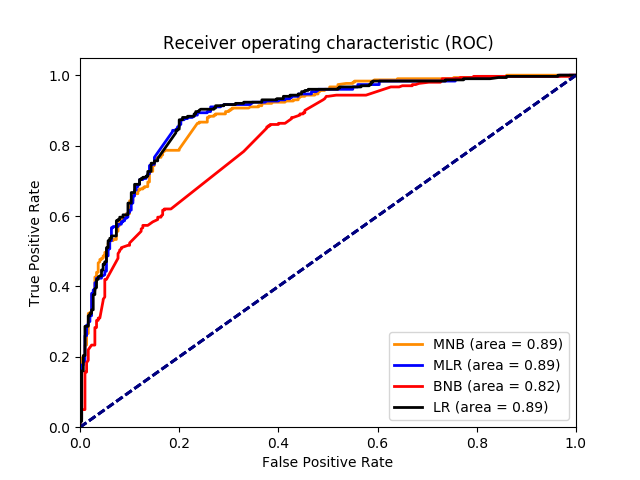
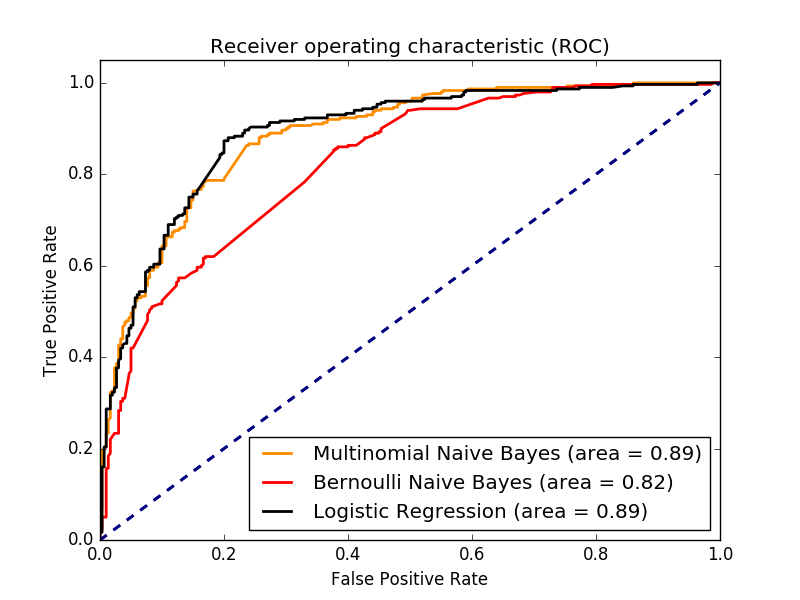
added sgd, results

diff --git a/testing2.py b/testing2.py
@@ -6,6 +6,7 @@ from sklearn.metrics import roc_curve, auc
 import numpy as np
 import matplotlib.pyplot as plt
 from sklearn.naive_bayes import BernoulliNB
+from sklearn.linear_model import SGDClassifier
 
 fvs_train = np.loadtxt("data/BOW.csv", delimiter=',')
 target_train = np.loadtxt("data/out_classes_1.txt")
@@ -16,7 +17,7 @@ transformer = TfidfTransformer()
 fvs_train = transformer.fit_transform(fvs_train)
 fvs_test = transformer.transform(fvs_test)
 
-classes = [('mn', MultinomialNB()), ('lr', LogisticRegression(multi_class = 'multinomial', solver = 'newton-cg')), ('bn', BernoulliNB(binarize=0.5)), ('lr2', LogisticRegression())]
+classes = [('mn', MultinomialNB()), ('bn', BernoulliNB(binarize=0.5)), ('lr', LogisticRegression()), ('sgd', SGDClassifier(loss='hinge', penalty='l2', alpha=1e-3, n_iter=5, random_state=42))]
 
 fpr = dict()
 tpr = dict()
@@ -31,17 +32,18 @@ for c in classes:
     print("mean:", np.mean(predicted == target_test))
     print(metrics.classification_report(target_test, predicted))
     print(fvs_test.shape)
-    p_score = clf.predict_proba(fvs_test)
-    # print(metrics.roc_curve(target_test,p_score[:,0]))
-    targets2d = np.array([1-target_test,target_test])
-    targets2d = np.transpose(targets2d)
+    if c[0] is not 'sgd':
+        p_score = clf.predict_proba(fvs_test)
+        # print(metrics.roc_curve(target_test,p_score[:,0]))
+        targets2d = np.array([1-target_test,target_test])
+        targets2d = np.transpose(targets2d)
 
-    # Compute ROC curve and ROC area for each class
+        # Compute ROC curve and ROC area for each class
 
-    # for i in range(2):
-    print(c[0])
-    fpr[c[0]], tpr[c[0]], _ = roc_curve(targets2d[:, 0], p_score[:, 0])
-    roc_auc[c[0]] = auc(fpr[c[0]], tpr[c[0]])
+        # for i in range(2):
+        print(c[0])
+        fpr[c[0]], tpr[c[0]], _ = roc_curve(targets2d[:, 0], p_score[:, 0])
+        roc_auc[c[0]] = auc(fpr[c[0]], tpr[c[0]])
 
     # Compute micro-average ROC curve and ROC area
     # fpr["micro"], tpr["micro"], _ = roc_curve(targets2d.ravel(), p_score.ravel())
@@ -52,26 +54,18 @@ print(fpr.keys())
 lw = 2
 cl = 'mn'
 plt.plot(fpr[cl], tpr[cl], color='darkorange',
-         lw=lw, label='MNB (area = %0.2f)' % roc_auc[cl])
-
-cl = 'lr'
-plt.plot(fpr[cl], tpr[cl], color='blue',
-         lw=lw, label='MLR (area = %0.2f)' % roc_auc[cl])
-plt.plot([0, 1], [0, 1], color='navy', lw=lw, linestyle='--')
-
+         lw=lw, label='Multinomial Naive Bayes (area = %0.2f)' % roc_auc[cl])
 
 cl = 'bn'
 plt.plot(fpr[cl], tpr[cl], color='red',
-         lw=lw, label='BNB (area = %0.2f)' % roc_auc[cl])
+         lw=lw, label='Bernoulli Naive Bayes (area = %0.2f)' % roc_auc[cl])
 plt.plot([0, 1], [0, 1], color='navy', lw=lw, linestyle='--')
 
 
-cl = 'lr2'
+cl = 'lr'
 plt.plot(fpr[cl], tpr[cl], color='black',
-         lw=lw, label='LR (area = %0.2f)' % roc_auc[cl])
+         lw=lw, label='Logistic Regression (area = %0.2f)' % roc_auc[cl])
 plt.plot([0, 1], [0, 1], color='navy', lw=lw, linestyle='--')
-
-
 
 plt.xlim([0.0, 1.0])
 plt.ylim([0.0, 1.05])
